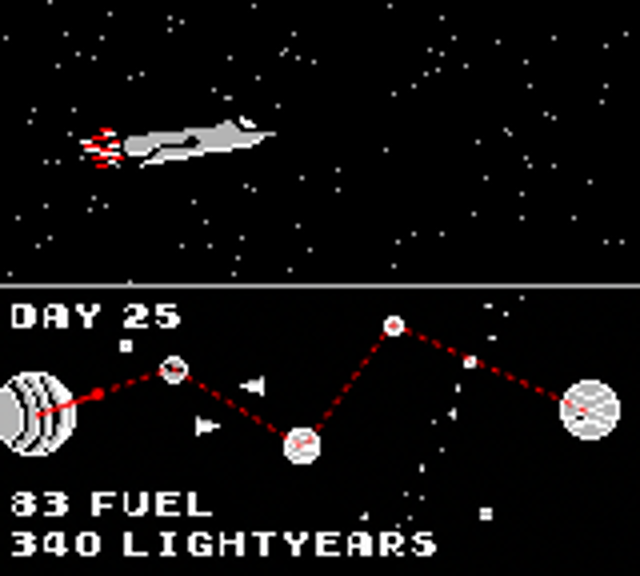
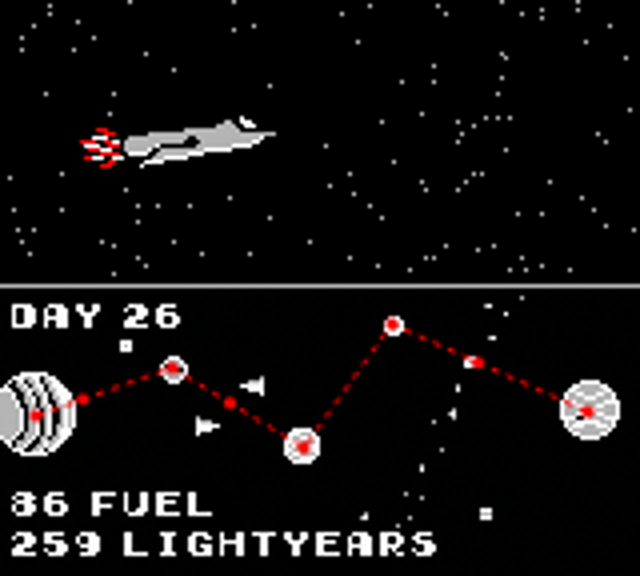
Update

diff --git a/draw.js b/draw.js
@@ -142,7 +142,6 @@ function draw_main(){
     ctx.lineTo(147, 103)
     ctx.stroke();
     // Draw indicators
-    ship.next_zone * .5 + .36
     ctx.beginPath();
     var coords = line_to_from_progress(.11, 43, 92, 76, 112);
     ctx.arc(coords[0], coords[1], 1.5, 0, 2 * Math.PI);
@@ -180,7 +179,7 @@ function draw_main(){
     var shipCoords = [-20, -20];
     if(progress < 0.25){
         shipCoords = line_to_from_progress(progress, 9, 104, 43, 92);
-        
+        ctx.lineTo(shipCoords[0], shipCoords[1])
     } else {
         ctx.lineTo(43, 92)
         if (progress < 0.5){

diff --git a/main.js b/main.js
@@ -459,8 +459,6 @@ function keyPush(e) {
             }
             break;
         case 88: // x
-            break;
-        case 32: // space
             if(gameState == "status"){
                 gameState = "main";
                 play_audio("select");
@@ -469,6 +467,7 @@ function keyPush(e) {
                 play_audio("select");
             }
             break;
+        case 32: // space
         case 13: // enter
             if(gameState == "options"){
                 gameState = "main";
